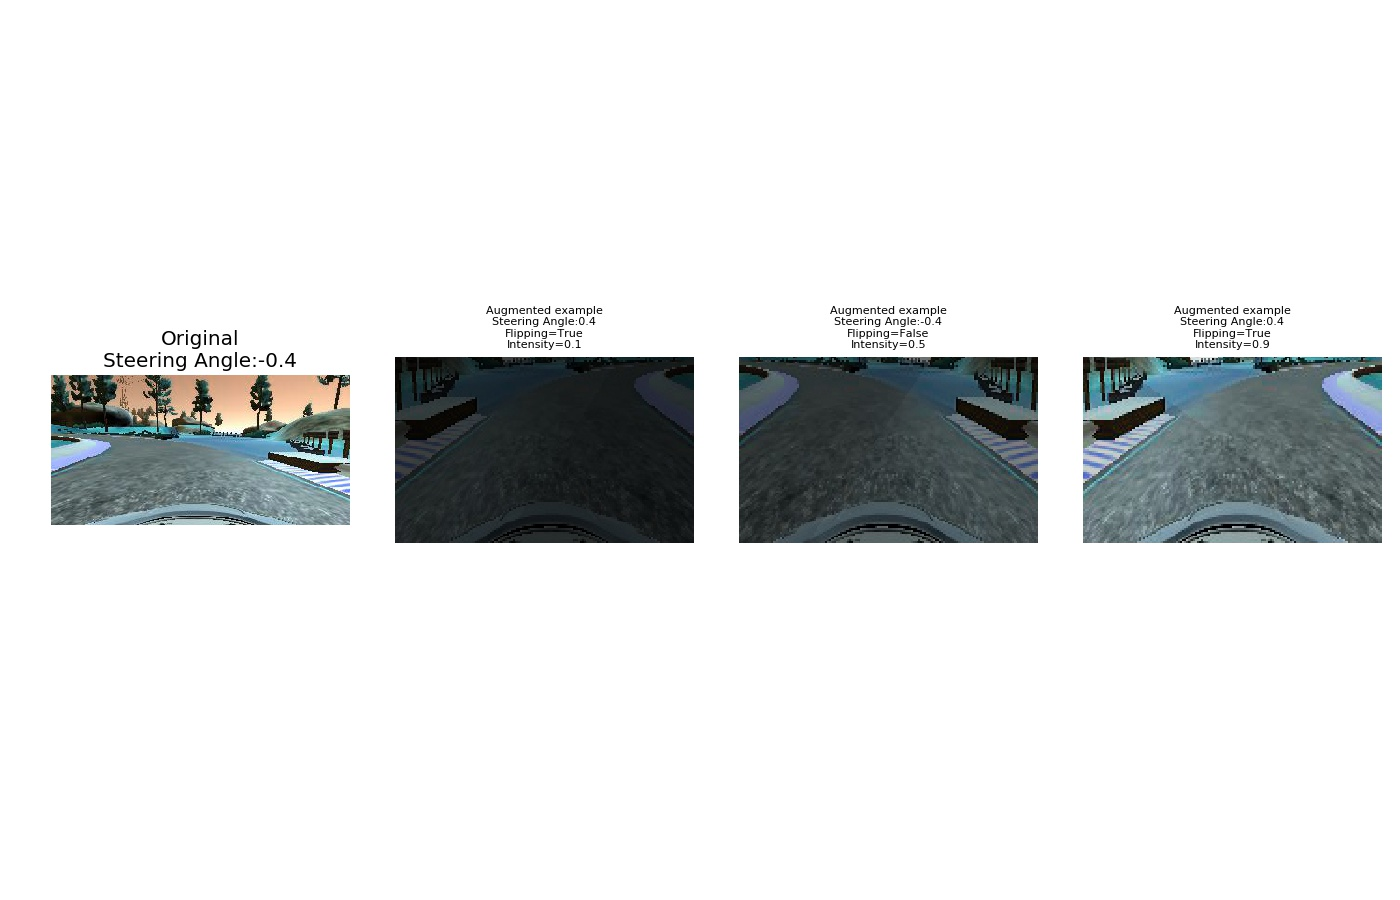
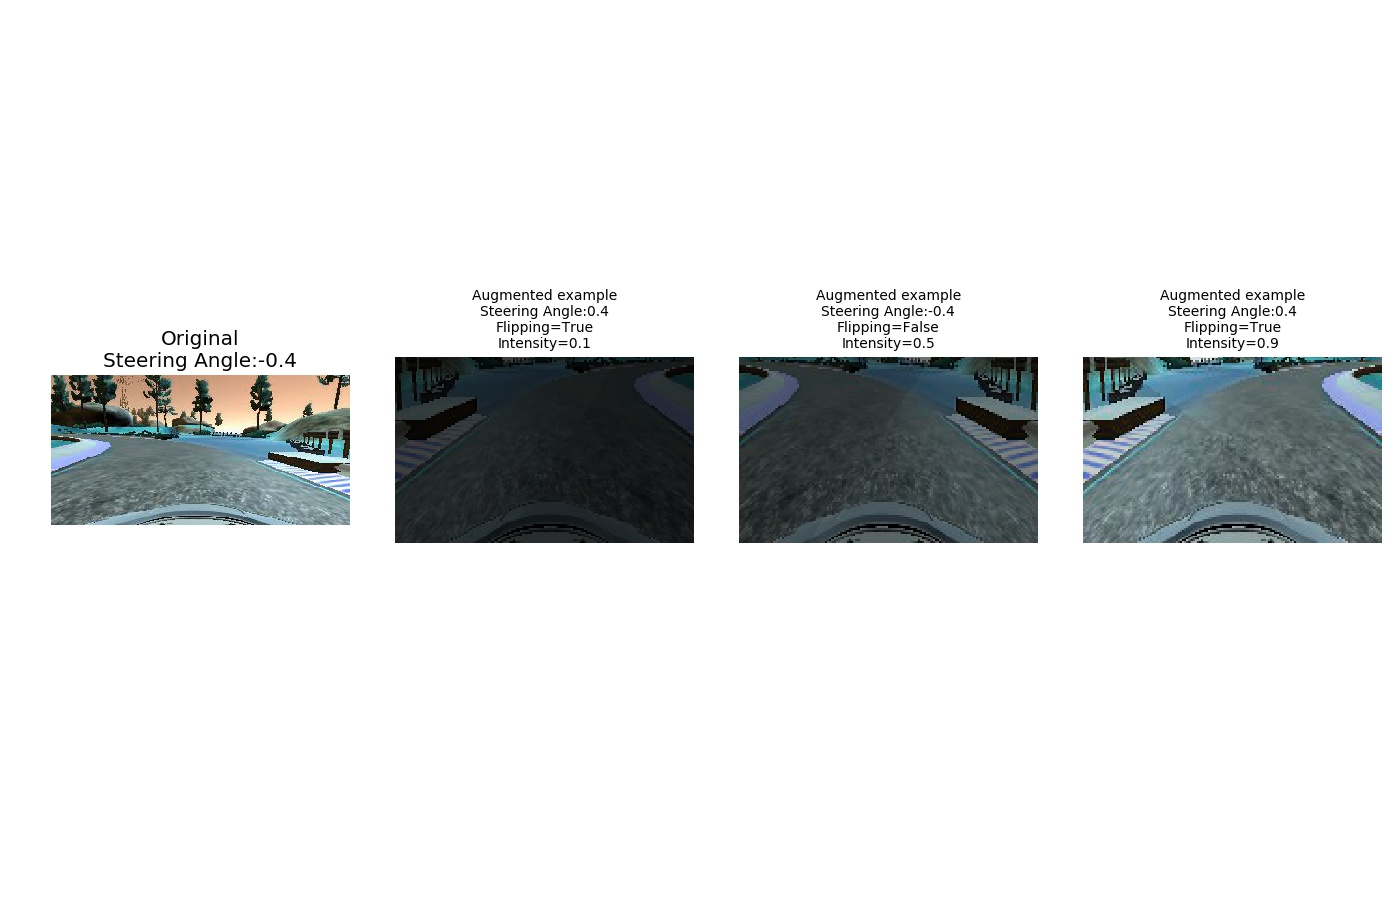
P3 Re-Submitted! (reformat some figure sizes )

Changed region(s): [[0.8293, 0.3111, 0.9214, 0.4044], [0.5836, 0.3111, 0.6757, 0.4044], [0.3379, 0.3111, 0.43, 0.4044]]

diff --git a/Term1/P3 - Behavioral-Cloning/scripts/labels_distributions.py b/Term1/P3 - Behavioral-Cloning/scripts/labels_distributions.py
@@ -77,15 +77,15 @@ ax1.axis('off')
 ax2 = plt.subplot(gs[0, 1])
 ax2.imshow(process_data.augmented_images(img_proc, st_angle, True, 0.1)[0])
 ax2.axis('off')
-ax2.set_title('Augmented example\nSteering Angle:{0}\nFlipping=True\nIntensity=0.1'.format(st_angle*-1),fontsize=8)
+ax2.set_title('Augmented example\nSteering Angle:{0}\nFlipping=True\nIntensity=0.1'.format(st_angle*-1),fontsize=10)
 ax3 = plt.subplot(gs[0, 2])
 ax3.imshow(process_data.augmented_images(img_proc, st_angle, False, 0.5)[0])
 ax3.axis('off')
-ax3.set_title('Augmented example\nSteering Angle:{0}\nFlipping=False\nIntensity=0.5'.format(st_angle),fontsize=8)
+ax3.set_title('Augmented example\nSteering Angle:{0}\nFlipping=False\nIntensity=0.5'.format(st_angle),fontsize=10)
 ax4 = plt.subplot(gs[0, 3])
 ax4.imshow(process_data.augmented_images(img_proc, st_angle, True, 0.9)[0])
 ax4.axis('off')
-ax4.set_title('Augmented example\nSteering Angle:{0}\nFlipping=True\nIntensity=0.9'.format(st_angle*-1),fontsize=8)
+ax4.set_title('Augmented example\nSteering Angle:{0}\nFlipping=True\nIntensity=0.9'.format(st_angle*-1),fontsize=10)
 plt.tight_layout()
 fig.savefig(PATH_TO_IMG + 'augmented_example.jpg')
 
